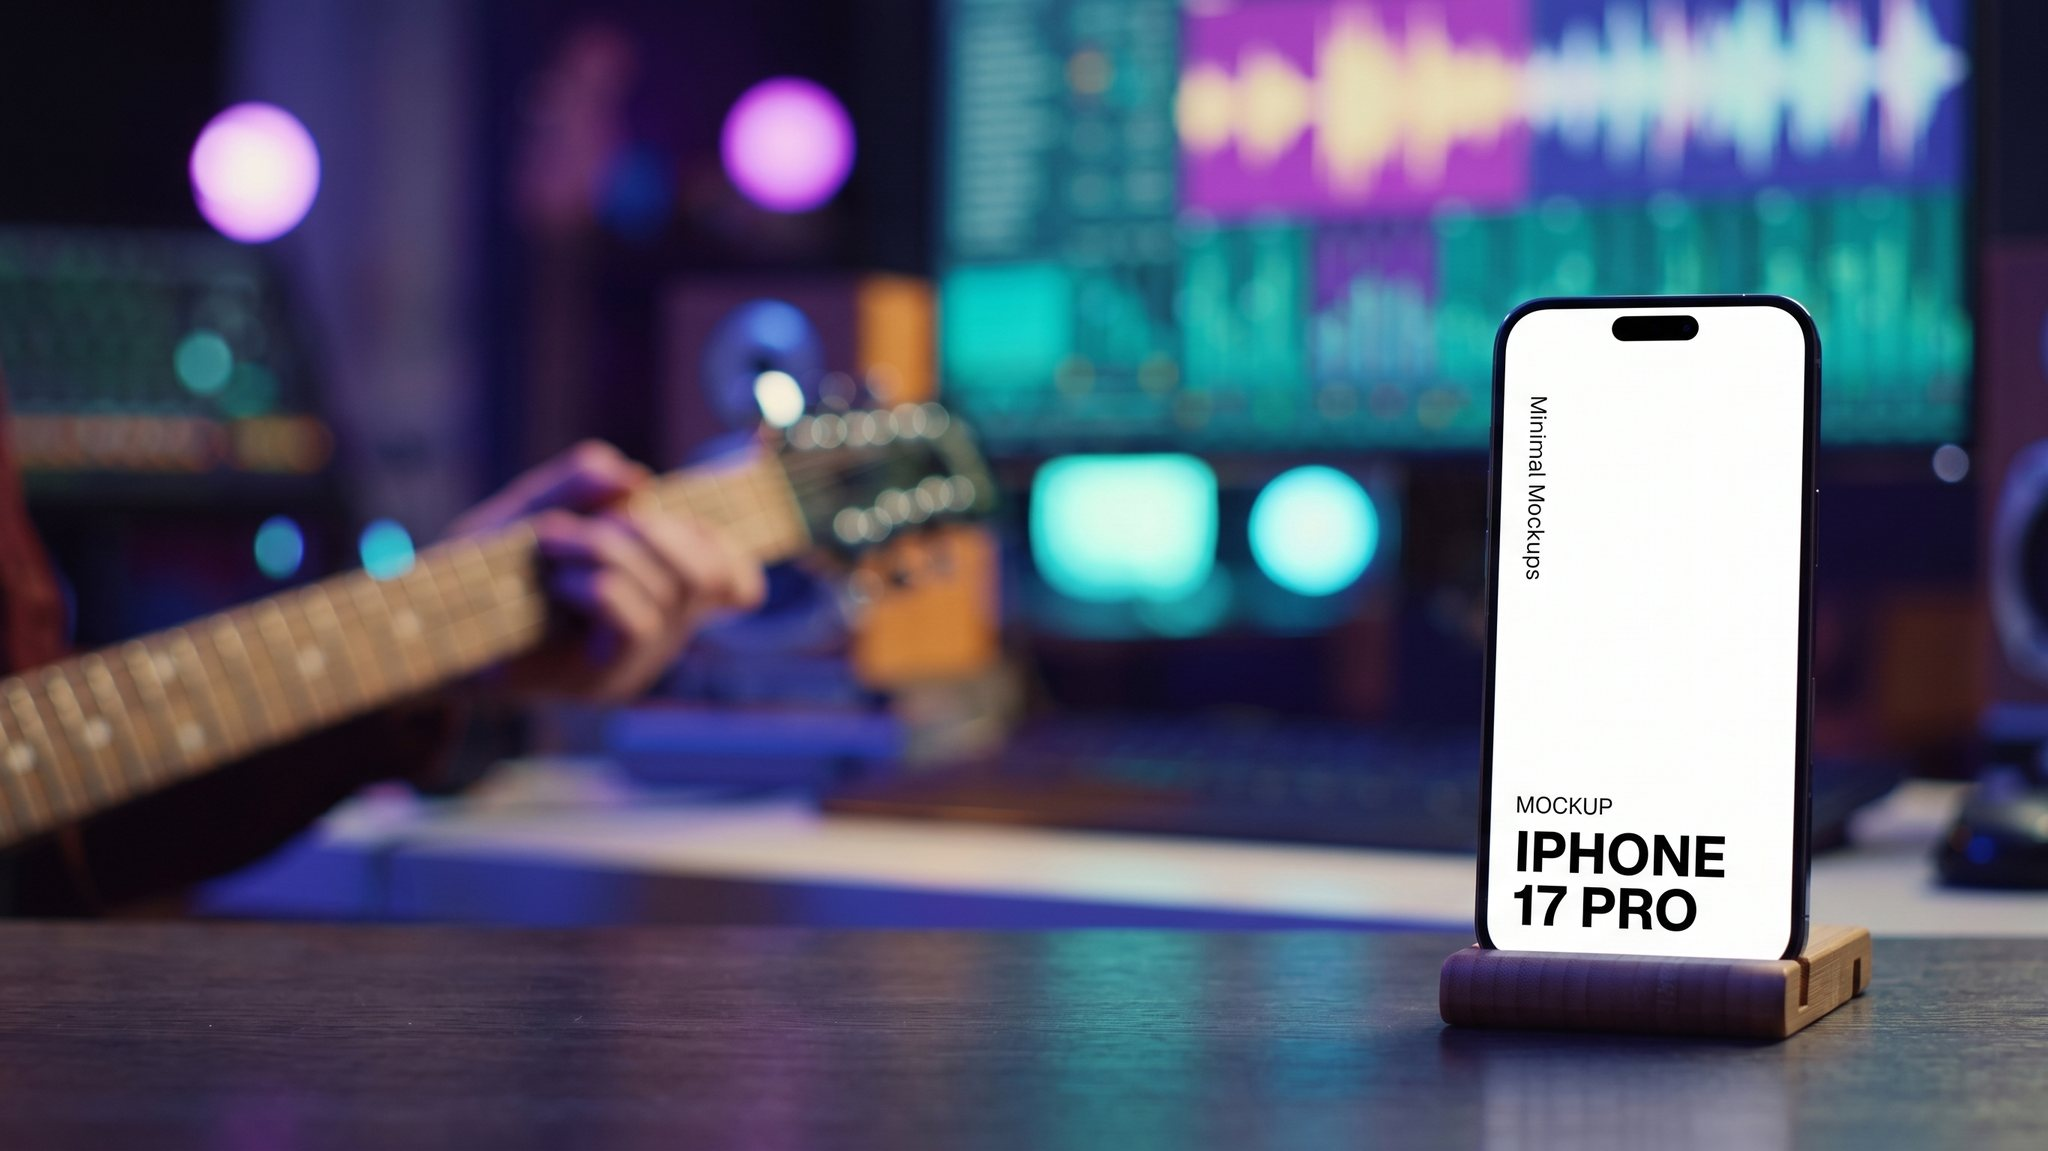
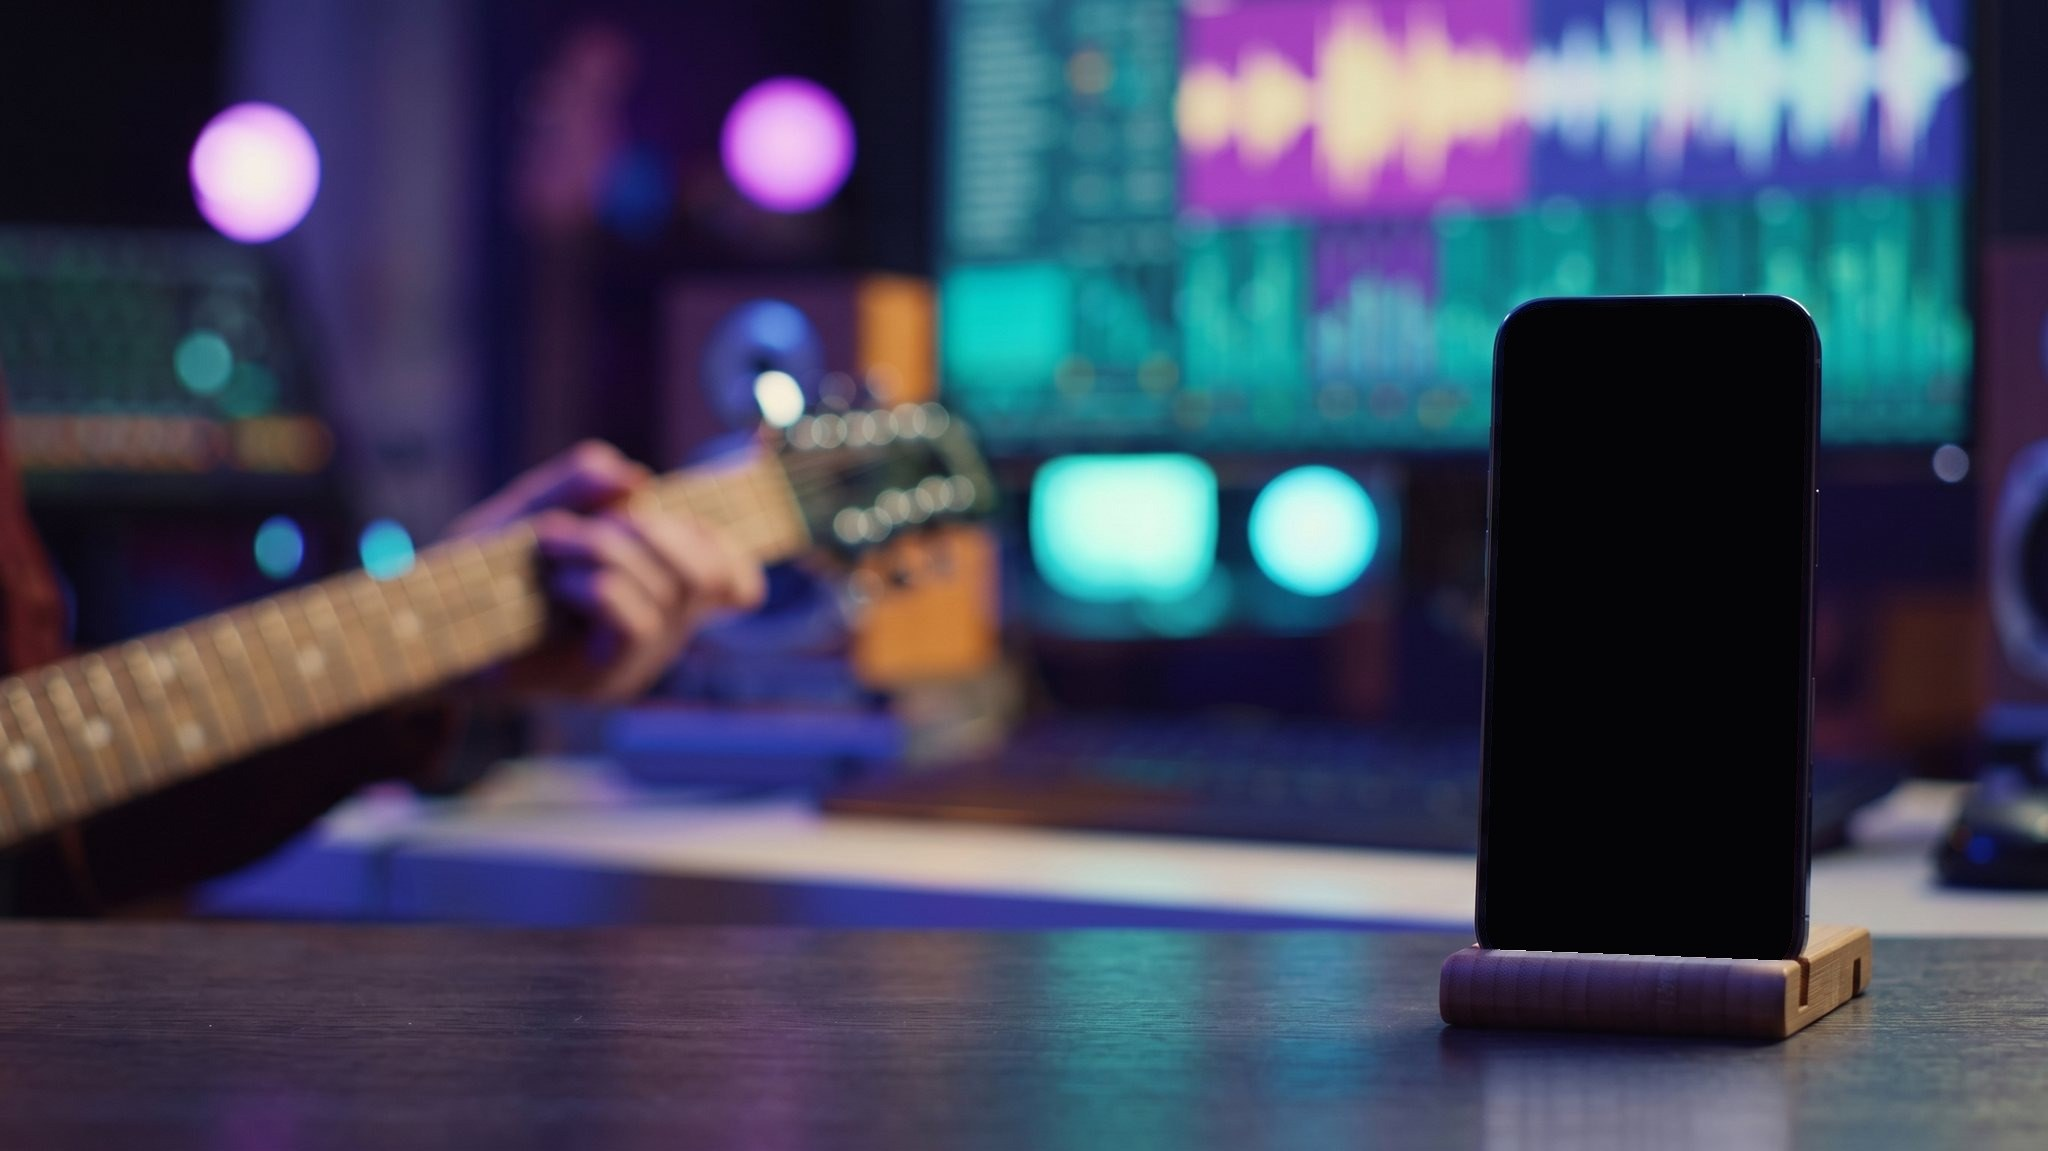
Fit the screen overlay to the photograph to the pixel
Re-measure the mockup from the JPEG instead of eyeballing it: straight-line
fits to the left, right and top screen edges (rms < 0.1 px), the hidden
bottom edge recovered by template-matching the visible slivers of the bottom
corner arcs against the top corners, and the wooden lip fitted as a line
(straight to 0.2 px, sloping 3.9% down to the right). The lip is now cut with
a clip-path polygon along that exact line rather than a horizontal inset,
which was leaving white on one side and painting video over the wood on the
other. The physical Dynamic Island, mapped back through the inverse
homography, lands centred at x=361.7 of 720 with its top at Apple's 11pt
inset, which confirms the perspective independently.

The photograph's white placeholder screen is painted black so any sub-pixel
seam between video and bezel is black on black: no bleed, no content scaled
up to hide edges, and a switched-off phone instead of "Minimal Mockups"
placeholder text if the video ever fails to load.

Claude-Session: https://claude.ai/code/session_01PKLAPQ9F6yftw5dPsK89LP

Changed region(s): [[0.7188, 0.2433, 0.9062, 0.8514]]

diff --git a/src/app/mobile/studio-mockup.tsx b/src/app/mobile/studio-mockup.tsx
@@ -2,7 +2,7 @@
 
 import * as React from "react";
 
-/* The hero: a photograph of an iPhone 17 Pro on a stand in a studio, with the
+/* The hero: a photograph of an iPhone 17 Pro on a wooden stand in a studio, with the
  * real app playing in the screen.
  *
  * The loop is 22 silent seconds cut from the App Review screen recording - a
@@ -10,25 +10,34 @@ import * as React from "react";
  * More menu and a client message. Real build on a physical device, which is the
  * whole reason to use it rather than a simulated UI.
  *
- * GEOMETRY IS MEASURED, NOT EYEBALLED. Thresholding the source JPEG
- * (2732x1536) for near-white pixels in the phone's column and fitting straight
- * lines to the left and right edges over ~680 rows gives
+ * GEOMETRY IS MEASURED, NOT EYEBALLED. Every number below comes from fitting the
+ * 2048x1151 JPEG in public/mobile to sub-pixel precision:
  *
- *     left  x = -0.04876 y + 2036.02
- *     right x = -0.02482 y + 2418.50
+ *   - The left, right and top screen edges are straight lines fitted to the
+ *     50% luminance crossing on ~500 rows / ~170 columns each, rms error under
+ *     0.1px. They are not perpendicular: the sides lean 1.6 degrees clockwise
+ *     while the top edge rises 0.84 degrees to the right, which is the signature
+ *     of a phone pitched back in its stand and yawed with its right side nearer
+ *     the camera. No rotate() can express that, so the video is mapped with a
+ *     real homography.
+ *   - The bottom edge is HIDDEN behind the stand, so it is recovered from the
+ *     parts of the bottom corner arcs that are still visible above the wood,
+ *     template-matched against the fully visible top corners (rms 0.4-0.7px).
+ *     The screen runs 12px behind the wood on both sides; the video is mapped
+ *     onto the whole screen and then clipped, because mapping it onto only the
+ *     visible part would squash the picture.
+ *   - The wooden lip that cuts the screen off is a straight line to within
+ *     0.2px across the full width, sloping down to the right by 3.9%. It is cut
+ *     with a clip-path polygon along that exact line, not a horizontal inset.
+ *   - Cross-check: the phone's physical Dynamic Island, mapped back through the
+ *     inverse homography, lands centred at x=361.7 of 720 in video space with
+ *     its top at 11pt, which is Apple's own inset. The fit is right.
  *
- * The two edges converge going up, so the screen is a TRAPEZOID, not a rotated
- * rectangle: 394px across the top, 413px across the bottom. A CSS rotate cannot
- * express that, which is why this maps the video with a real homography instead.
- *
- * The top edge is the first row carrying any white (y=411); full width arrives
- * at y=464, so the corner radius is 53px, 13.2% of the screen width - which is
- * what a real iPhone measures. The bottom is derived from the video's own
- * 720x1564 aspect rather than measured, BECAUSE IT IS NOT VISIBLE: the wooden
- * stand crosses at y=1268 and the screen truly ends at y=1282. Those last 14px
- * are behind the wood, so the video is mapped onto the whole screen and then
- * clipped at the stand line. Mapping it onto only the visible part would
- * squash the picture by 2%.
+ * The photograph's own screen has been painted black (the mockup shipped with a
+ * white placeholder). Any sub-pixel seam between the video and the bezel is
+ * therefore black-on-black and invisible, so no bleed is needed, the content is
+ * not scaled up to hide edges, and if the video ever fails to load the phone
+ * simply looks switched off instead of showing placeholder text.
  */
 
 const MOCKUP_SRC = "/mobile/studio-mockup.jpg";
@@ -36,30 +45,28 @@ const VIDEO_SRC = "/mobile/app-loop.mp4";
 const VIDEO_WEBM = "/mobile/app-loop.webm";
 const POSTER_SRC = "/mobile/app-loop-poster.jpg";
 
-/* The screen's four corners, as fractions of the frame. Clockwise from top left. */
+/* The screen's four virtual corners (where the straight edges would meet if the
+   corners were not rounded), as fractions of the frame. Clockwise from top left. */
 const QUAD = [
-  [0.73791, 0.26758], // TL
-  [0.88151, 0.26758], // TR
-  [0.87361, 0.83490], // BR
-  [0.72236, 0.83490], // BL
+  [0.73572, 0.26882], // TL
+  [0.8817, 0.26499], // TR
+  [0.87377, 0.84415], // BR
+  [0.72543, 0.83505], // BL
 ] as const;
 
-/* Where the wooden stand crosses in front of the phone, as a fraction of the
-   frame height. Everything below this is wood, never screen. */
-const STAND_CUT = 0.82552;
+/* The top edge of the wooden lip, as fractions of the frame height where the
+   line crosses x=0 and x=100%. Everything below it is wood, never screen. */
+const LIP_LEFT = 0.77392;
+const LIP_RIGHT = 0.84299;
 
-/* Corner radius as a fraction of the screen's width. */
-const RADIUS = 0.132;
+/* Corner radius as a fraction of the screen's width, from the top corner arcs.
+   Apple's continuous corner is not a true circle, but the difference is under a
+   pixel and lands on the black bezel. */
+const RADIUS = 0.1468;
 
-/* Outward bleed. The edge fit is good to a few pixels, not to the pixel, and a
-   few pixels short shows as a pale sliver of the mockup's own white screen down
-   the side - the one thing that gives the composite away. So the quad is grown
-   about its centre and allowed to run UNDER the bezel, which is roughly 10px of
-   dark metal on a 400px screen at this scale. 1.5% per side is about 6px: enough
-   to bury the error, not enough to climb onto the frame. The bottom gets extra
-   because the stand mask eats it anyway. */
-const BLEED = 1.03;
-const BLEED_BOTTOM = 0.03;
+/* A hair of outward growth, about half a pixel at source resolution, so browser
+   rasterisation rounding can never leave the video short of the bezel. */
+const BLEED = 1.004;
 
 /* ---------- homography ----------
    Solve the 8 unknowns of the projective map taking the source rectangle's
@@ -136,6 +143,8 @@ function usePrefersReducedMotion() {
   );
 }
 
+const LIP_CLIP = `polygon(0 0, 100% 0, 100% ${(LIP_RIGHT * 100).toFixed(3)}%, 0 ${(LIP_LEFT * 100).toFixed(3)}%)`;
+
 export function StudioMockup() {
   const reduced = usePrefersReducedMotion();
   const figureRef = React.useRef<HTMLElement>(null);
@@ -156,11 +165,9 @@ export function StudioMockup() {
       const raw = QUAD.map(([fx, fy]) => [fx * W, fy * Hh] as [number, number]);
       const cx = raw.reduce((t, q) => t + q[0], 0) / 4;
       const cy = raw.reduce((t, q) => t + q[1], 0) / 4;
-      const dst = raw.map(([x, y], i) => {
-        const p: [number, number] = [cx + (x - cx) * BLEED, cy + (y - cy) * BLEED];
-        if (i >= 2) p[1] += (raw[3][1] - raw[0][1]) * BLEED_BOTTOM; // BR and BL
-        return p;
-      });
+      const dst = raw.map(
+        ([x, y]) => [cx + (x - cx) * BLEED, cy + (y - cy) * BLEED] as [number, number],
+      );
       /* The source box is the quad's own average size, so the video is never
          asked to stretch much before the homography does the real work. */
       const w = ((dst[1][0] - dst[0][0]) + (dst[2][0] - dst[3][0])) / 2;
@@ -218,13 +225,10 @@ export function StudioMockup() {
         className="block h-auto w-full"
       />
 
-      {/* The stand mask. Everything below this line is wood, so the screen
-          layer is cut here and can never paint over it. */}
-      <div
-        aria-hidden="true"
-        className="absolute inset-0"
-        style={{ clipPath: `inset(0 0 ${((1 - STAND_CUT) * 100).toFixed(3)}% 0)` }}
-      >
+      {/* The stand mask: the wooden lip's top edge, as a line. Everything below
+          it is wood, so the screen layer is cut there and can never paint over
+          it. */}
+      <div aria-hidden="true" className="absolute inset-0" style={{ clipPath: LIP_CLIP }}>
         <div
           ref={screenRef}
           className="absolute left-0 top-0 overflow-hidden bg-black"
